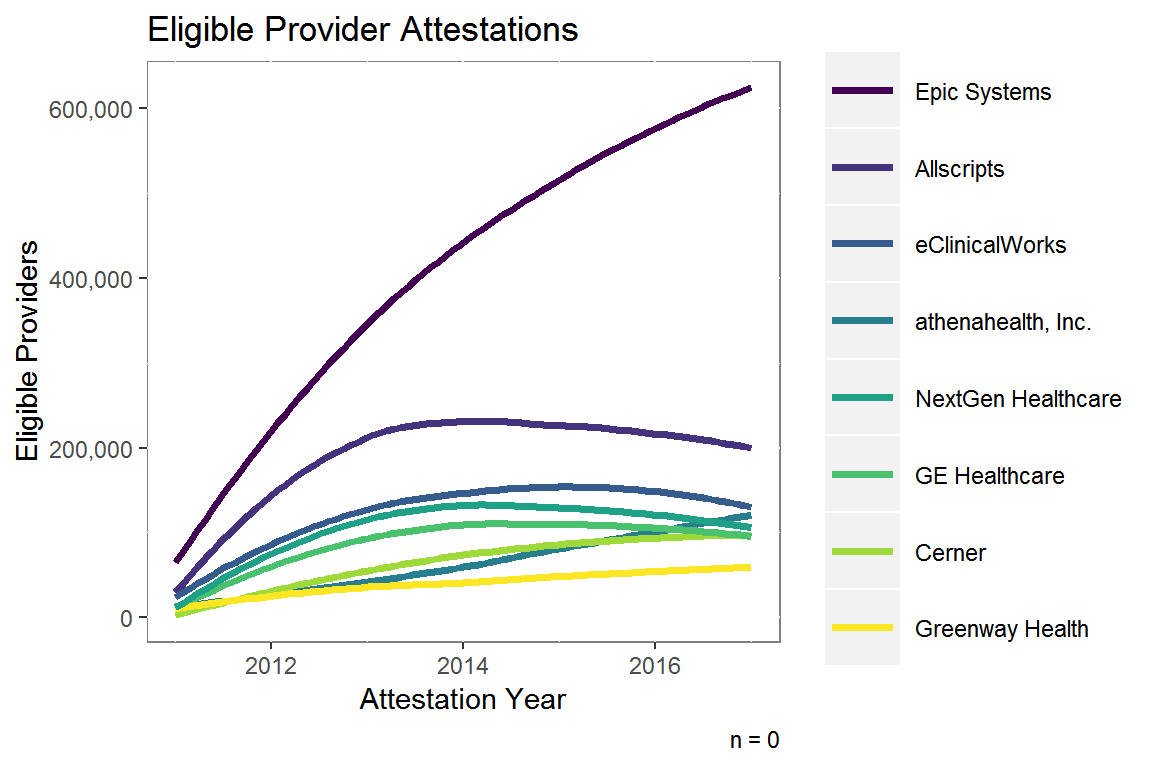
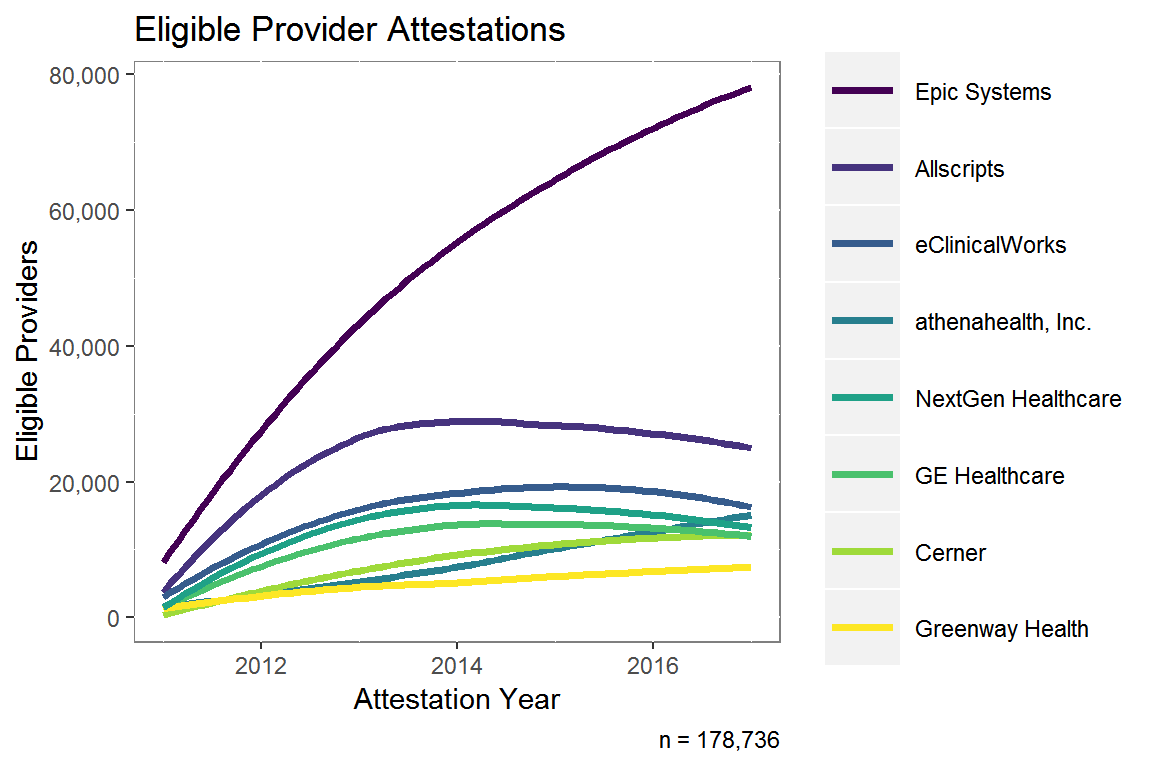
refine data page

diff --git a/data.html b/data.html
@@ -579,7 +579,7 @@ aff.hosp &lt;-<span class="st"> </span>aff.hosp[MedicareNumber <span class="op">
 <div id="section" class="section level1 tabset">
 <h1></h1>
 <p><a href="https://www.himss.org/library/interoperability-standards/what-is-interoperability">Interoperability is the ability of different information systems, devices or applications to connect, in a coordinated manner, within and across organizational boundaries to access, exchange and cooperatively use data amongst stakeholders, with the goal of optimizing the health of individuals and populations.</a></p>
-<p>The effort required to acheive interoperability can be illustrated by looking at the volume of systems that must coordinate to acheive interoperability between a single hospital and it’s affiliated physicians.</p>
+<p>Looking at the number of systems that must coordinate to achieve interoperability between a single hospital and it’s affiliated physicians illustrates the magnitude of the effort required to achieve interoperability on a national level.</p>
 <div class="sourceCode"><pre class="sourceCode r"><code class="sourceCode r"><span class="co"># affiliations with mu records</span>
 aff.hosp2 &lt;-<span class="st"> </span>aff.hosp[NPI <span class="op">%in%</span><span class="st"> </span>mu<span class="op">$</span>NPI <span class="op">&amp;</span>
 <span class="st">           </span>MedicareNumber <span class="op">%in%</span><span class="st"> </span>mu[<span class="op">!</span><span class="kw">is.na</span>(mu<span class="op">$</span>CCN),]<span class="op">$</span>CCN]
@@ -675,10 +675,10 @@ aff.mu.npi.cnt &lt;-<span class="st"> </span>aff.mu.npi[,
 <span class="st">  </span><span class="kw">scale_x_log10</span>(<span class="dt">limits =</span> <span class="kw">c</span>(<span class="dv">1</span>, <span class="dv">1000</span>))<span class="op">+</span>
 <span class="st">  </span><span class="kw">scale_color_viridis_d</span>(<span class="dt">begin =</span> <span class="fl">0.0</span>,
                        <span class="dt">end =</span> <span class="fl">0.1</span>)<span class="op">+</span>
-<span class="st">  </span><span class="kw">labs</span>(<span class="dt">title =</span> <span class="kw">paste</span>(<span class="st">&quot;The average hospital has affilated&quot;</span>,
-                     <span class="st">&quot;physicians</span><span class="ch">\n</span><span class="st">using&quot;</span>,
+<span class="st">  </span><span class="kw">labs</span>(<span class="dt">title =</span> <span class="kw">paste</span>(<span class="st">&quot;The average hospital has&quot;</span>,
                      <span class="kw">round</span>(<span class="kw">mean</span>(aff.mu.avg<span class="op">$</span>Vendors)),
-                    <span class="st">&quot;disparate EHR systems&quot;</span>),
+                    <span class="st">&quot;disparate EHR systems used by&quot;</span>,
+                    <span class="st">&quot;</span><span class="ch">\n</span><span class="st"> affiliated physicians&quot;</span>),
        <span class="dt">x =</span> <span class="st">&quot;log10(Affiliated Physicians)&quot;</span>,
        <span class="dt">y =</span> <span class="st">&quot;Physician EHR Vendors&quot;</span>)<span class="op">+</span>
 <span class="st">  </span><span class="kw">theme</span>(<span class="dt">panel.background =</span>
@@ -688,7 +688,7 @@ aff.mu.npi.cnt &lt;-<span class="st"> </span>aff.mu.npi[,
 </div>
 <div id="providers" class="section level2">
 <h2>Providers</h2>
-<p>32% of physican affiliations involve multiple EHR vendors.</p>
+<p>68% of physician affiliations involve multiple EHR vendors.</p>
 <div class="sourceCode"><pre class="sourceCode r"><code class="sourceCode r">aff.mu.npi.cnt <span class="op">%&gt;%</span><span class="st"> </span>
 <span class="st">  </span><span class="kw">filter</span>(Affiliated <span class="op">==</span><span class="st"> </span><span class="dv">1</span>) <span class="op">%&gt;%</span><span class="st"> </span>
 <span class="st">  </span><span class="kw">mutate</span>(<span class="dt">Same =</span> Vendors <span class="op">==</span><span class="st"> </span><span class="dv">0</span>) <span class="op">%&gt;%</span>
@@ -757,6 +757,38 @@ aff.mu.npi.cnt <span class="op">%&gt;%</span><span class="st"> </span>
                        <span class="dt">colour =</span> <span class="st">&quot;grey50&quot;</span>))</code></pre></div>
 <p><img src="data_files/figure-html/physplots-1.png" width="45%" /><img src="data_files/figure-html/physplots-2.png" width="45%" /></p>
 </div>
+<div id="additional-ehrs" class="section level2">
+<h2>Additional EHRs</h2>
+<div class="sourceCode"><pre class="sourceCode r"><code class="sourceCode r">aff.mu.npi.cnt <span class="op">%&gt;%</span><span class="st"> </span>
+<span class="st">  </span><span class="kw">mutate</span>(<span class="dt">grp =</span> <span class="st">&quot;group&quot;</span>) <span class="op">%&gt;%</span><span class="st"> </span>
+<span class="st">  </span><span class="kw">ggplot</span>(<span class="kw">aes</span>(Affiliated, Vendors)) <span class="op">+</span>
+<span class="st">  </span><span class="kw">stat_summary</span>(<span class="dt">fun.data =</span> <span class="st">&quot;median_hilow&quot;</span>,
+               <span class="dt">geom =</span> <span class="st">&quot;linerange&quot;</span>,
+               <span class="dt">mapping =</span> <span class="kw">aes</span>(<span class="dt">color =</span> Affiliated),
+               <span class="dt">show.legend =</span> F)<span class="op">+</span>
+<span class="st">  </span><span class="kw">stat_summary</span>(<span class="dt">fun.y =</span> <span class="st">&quot;median&quot;</span>,
+               <span class="dt">geom =</span> <span class="st">&quot;line&quot;</span>,
+               <span class="dt">mapping =</span> <span class="kw">aes</span>(<span class="dt">color =</span> Affiliated),
+               <span class="dt">show.legend =</span> F)<span class="op">+</span>
+<span class="st">  </span><span class="kw">stat_sum</span>(<span class="dt">geom =</span> <span class="st">&quot;point&quot;</span>,
+           <span class="dt">mapping =</span> <span class="kw">aes</span>(<span class="dt">color =</span> Affiliated),
+           <span class="dt">show.legend =</span> F)<span class="op">+</span>
+<span class="st">  </span><span class="kw">scale_color_viridis_c</span>(<span class="dt">begin =</span> <span class="fl">0.2</span>,
+                       <span class="dt">end =</span> <span class="fl">0.8</span>)<span class="op">+</span>
+<span class="st">  </span><span class="kw">scale_y_continuous</span>(<span class="dt">labels =</span> scales<span class="op">::</span>comma)<span class="op">+</span>
+<span class="st">  </span><span class="kw">scale_x_continuous</span>(<span class="dt">labels =</span> scales<span class="op">::</span>comma)<span class="op">+</span>
+<span class="st">  </span><span class="kw">labs</span>(<span class="dt">title =</span> 
+         <span class="kw">paste0</span>(<span class="kw">comma</span>(<span class="kw">nrow</span>(aff.mu.npi.cnt[Affiliated <span class="op">&gt;</span><span class="st"> </span><span class="dv">1</span> <span class="op">&amp;</span>
+<span class="st">                                            </span>Vendors <span class="op">&gt;</span><span class="st"> </span><span class="dv">0</span>])),
+                <span class="st">&quot; Physicians affiliated with multiple hospitals&quot;</span>,
+                <span class="st">&quot;</span><span class="ch">\n</span><span class="st">have to interact with multiple EHRs&quot;</span>),
+       <span class="dt">x =</span> <span class="st">&quot;Hospital Affiliations&quot;</span>,
+       <span class="dt">y =</span> <span class="st">&quot;Additional EHR Vendors&quot;</span>) <span class="op">+</span>
+<span class="st"> </span><span class="kw">theme</span>(<span class="dt">panel.background =</span>
+          <span class="kw">element_rect</span>(<span class="dt">fill =</span> <span class="st">&quot;white&quot;</span>,
+                       <span class="dt">colour =</span> <span class="st">&quot;grey50&quot;</span>))</code></pre></div>
+<p><img src="data_files/figure-html/dispplot-1.png" width="576" /></p>
+</div>
 <div id="by-hospital-vendor" class="section level2">
 <h2>By Hospital Vendor</h2>
 <div class="sourceCode"><pre class="sourceCode r"><code class="sourceCode r">mu.vend &lt;-<span class="st"> </span>mu.aff[, .(<span class="kw">length</span>(<span class="kw">unique</span>(NPI)),
@@ -813,64 +845,27 @@ mu.vend <span class="op">%&gt;%</span><span class="st"> </span>
         <span class="dt">legend.key.size =</span> <span class="kw">unit</span>(<span class="dv">2</span>, <span class="st">&quot;lines&quot;</span>))</code></pre></div>
 <p><img src="data_files/figure-html/byvend-1.png" width="576" /></p>
 </div>
-<div id="disparate-ehr" class="section level2">
-<h2>Disparate EHR</h2>
-<p>Physicians have to coordinate with an additional EHR system for every NaN affiliation.</p>
-<div class="sourceCode"><pre class="sourceCode r"><code class="sourceCode r">aff.mu.npi.cnt <span class="op">%&gt;%</span><span class="st"> </span>
-<span class="st">  </span><span class="kw">mutate</span>(<span class="dt">grp =</span> <span class="st">&quot;group&quot;</span>) <span class="op">%&gt;%</span><span class="st"> </span>
-<span class="st">  </span><span class="kw">ggplot</span>(<span class="kw">aes</span>(Affiliated, Vendors)) <span class="op">+</span>
-<span class="st">  </span><span class="kw">stat_summary</span>(<span class="dt">fun.data =</span> <span class="st">&quot;median_hilow&quot;</span>,
-               <span class="dt">geom =</span> <span class="st">&quot;linerange&quot;</span>,
-               <span class="dt">mapping =</span> <span class="kw">aes</span>(<span class="dt">color =</span> Affiliated),
-               <span class="dt">show.legend =</span> F)<span class="op">+</span>
-<span class="st">  </span><span class="kw">stat_summary</span>(<span class="dt">fun.y =</span> <span class="st">&quot;median&quot;</span>,
-               <span class="dt">geom =</span> <span class="st">&quot;line&quot;</span>,
-               <span class="dt">mapping =</span> <span class="kw">aes</span>(<span class="dt">color =</span> Affiliated),
-               <span class="dt">show.legend =</span> F)<span class="op">+</span>
-<span class="st">  </span><span class="kw">stat_sum</span>(<span class="dt">geom =</span> <span class="st">&quot;point&quot;</span>,
-           <span class="dt">mapping =</span> <span class="kw">aes</span>(<span class="dt">color =</span> Affiliated),
-           <span class="dt">show.legend =</span> F)<span class="op">+</span>
-<span class="st">  </span><span class="kw">scale_color_viridis_c</span>(<span class="dt">begin =</span> <span class="fl">0.2</span>,
-                       <span class="dt">end =</span> <span class="fl">0.8</span>)<span class="op">+</span>
-<span class="st">  </span><span class="kw">scale_y_continuous</span>(<span class="dt">labels =</span> scales<span class="op">::</span>comma)<span class="op">+</span>
-<span class="st">  </span><span class="kw">scale_x_continuous</span>(<span class="dt">labels =</span> scales<span class="op">::</span>comma)<span class="op">+</span>
-<span class="st">  </span><span class="kw">labs</span>(<span class="dt">title =</span> 
-         <span class="kw">paste0</span>(<span class="kw">round</span>(<span class="kw">nrow</span>(aff.mu.npi.cnt[Affiliated <span class="op">&gt;</span><span class="st"> </span><span class="dv">1</span> <span class="op">&amp;</span>
-<span class="st">                                            </span>Vendors <span class="op">&gt;</span><span class="st"> </span><span class="dv">0</span>]) <span class="op">/</span>
-<span class="st">                        </span><span class="kw">nrow</span>(aff.mu.npi.cnt[Affiliated <span class="op">&gt;</span><span class="st"> </span><span class="dv">1</span>]), <span class="dv">2</span>)<span class="op">*</span><span class="dv">100</span>,
-                <span class="st">&quot;% of Physicians affiliated with multiple hospitals&quot;</span>,
-                <span class="st">&quot;</span><span class="ch">\n</span><span class="st">have to interact with multiple EHRs&quot;</span>),
-       <span class="dt">x =</span> <span class="st">&quot;Hospital Affiliations&quot;</span>,
-       <span class="dt">y =</span> <span class="st">&quot;Additional EHR Vendors&quot;</span>) <span class="op">+</span>
-<span class="st"> </span><span class="kw">theme</span>(<span class="dt">panel.background =</span>
-          <span class="kw">element_rect</span>(<span class="dt">fill =</span> <span class="st">&quot;white&quot;</span>,
-                       <span class="dt">colour =</span> <span class="st">&quot;grey50&quot;</span>))</code></pre></div>
-<p><img src="data_files/figure-html/dispplot-1.png" width="576" /></p>
-</div>
 </div>
 <div id="vendor-market-share" class="section level1 tabset">
 <h1>Vendor Market Share</h1>
 <div id="inpatient" class="section level2">
 <h2>Inpatient</h2>
-<div class="sourceCode"><pre class="sourceCode r"><code class="sourceCode r">n.hosp &lt;-<span class="st"> </span><span class="kw">length</span>(
-  <span class="kw">unique</span>(
+<div class="sourceCode"><pre class="sourceCode r"><code class="sourceCode r">n.hosp &lt;-<span class="st"> </span><span class="kw">sum</span>(
     vendor[vendor<span class="op">$</span>Vendor_Name <span class="op">%in%</span>
 <span class="st">              </span>top.vendors[top.vendors<span class="op">$</span>Provider_Type <span class="op">==</span>
 <span class="st">                            &quot;Hospital&quot;</span> <span class="op">&amp;</span>
 <span class="st">                          </span>top.vendors<span class="op">$</span>Vendor <span class="op">!=</span><span class="st"> &quot;Other&quot;</span>,
                           ]<span class="op">$</span>Vendor_Name <span class="op">&amp;</span>
-<span class="st">              </span>vendor<span class="op">$</span>Provider_Type <span class="op">==</span><span class="st"> &quot;Hospital&quot;</span>, ]<span class="op">$</span>Id)
-  )
+<span class="st">              </span>vendor<span class="op">$</span>Provider_Type <span class="op">==</span><span class="st"> &quot;Hospital&quot;</span> <span class="op">&amp;</span>
+<span class="st">             </span>vendor<span class="op">$</span>Attestation_Year <span class="op">==</span><span class="st"> </span><span class="dv">2017</span>, ]<span class="op">$</span>V1)
 
-n.ep &lt;-<span class="st"> </span><span class="kw">length</span>(
-  <span class="kw">unique</span>(
-    vendor[vendor<span class="op">$</span>Vendor_Name <span class="op">%in%</span>
-<span class="st">              </span>top.vendors[top.vendors<span class="op">$</span>Provider_Type <span class="op">!=</span>
-<span class="st">                            &quot;Hospital&quot;</span> <span class="op">&amp;</span>
+n.ep &lt;-<span class="st"> </span><span class="kw">sum</span>(vendor[vendor<span class="op">$</span>Vendor_Name <span class="op">%in%</span>
+<span class="st">                   </span>top.vendors[top.vendors<span class="op">$</span>Provider_Type <span class="op">!=</span>
+<span class="st">                                &quot;Hospital&quot;</span> <span class="op">&amp;</span>
 <span class="st">                          </span>top.vendors<span class="op">$</span>Vendor <span class="op">!=</span><span class="st"> &quot;Other&quot;</span>,
                           ]<span class="op">$</span>Vendor_Name <span class="op">&amp;</span>
-<span class="st">              </span>vendor<span class="op">$</span>Provider_Type <span class="op">!=</span><span class="st"> &quot;Hospital&quot;</span>, ]<span class="op">$</span>Id)
-)
+<span class="st">              </span>vendor<span class="op">$</span>Provider_Type <span class="op">!=</span><span class="st"> &quot;Hospital&quot;</span> <span class="op">&amp;</span>
+<span class="st">             </span>vendor<span class="op">$</span>Attestation_Year <span class="op">==</span><span class="st"> </span><span class="dv">2017</span>, ]<span class="op">$</span>V1)
 
 vendor <span class="op">%&gt;%</span><span class="st"> </span>
 <span class="st">  </span><span class="kw">inner_join</span>(top.vendors <span class="op">%&gt;%</span><span class="st"> </span>
@@ -878,13 +873,11 @@ vendor <span class="op">%&gt;%</span><span class="st"> </span>
 <span class="st">               </span><span class="kw">select</span>(Vendor_Name, Provider_Type, Vendor)) <span class="op">%&gt;%</span><span class="st"> </span>
 <span class="st">  </span><span class="kw">filter</span>(Provider_Type <span class="op">!=</span><span class="st"> &quot;EP&quot;</span>) <span class="op">%&gt;%</span><span class="st"> </span>
 <span class="st">  </span><span class="kw">filter</span>(Attestation_Year <span class="op">&lt;</span><span class="st"> </span><span class="dv">2018</span>) <span class="op">%&gt;%</span><span class="st"> </span>
-<span class="st">  </span><span class="kw">group_by</span>(Vendor, Attestation_Year) <span class="op">%&gt;%</span><span class="st"> </span>
-<span class="st">  </span><span class="kw">summarize</span>(<span class="dt">n =</span> <span class="kw">sum</span>(V1)) <span class="op">%&gt;%</span><span class="st"> </span>
-<span class="st">  </span><span class="kw">ggplot</span>(<span class="kw">aes</span>(Attestation_Year, n))<span class="op">+</span>
+<span class="st">  </span><span class="kw">ggplot</span>(<span class="kw">aes</span>(Attestation_Year, V1))<span class="op">+</span>
 <span class="st">  </span><span class="kw">geom_smooth</span>(<span class="kw">aes</span>(<span class="dt">group =</span> Vendor,
                 <span class="dt">color =</span> <span class="kw">fct_reorder2</span>(Vendor,
                                      Attestation_Year,
-                                     n)),
+                                     V1)),
               <span class="dt">span =</span> T,
               <span class="dt">size =</span> <span class="fl">1.3</span>,
               <span class="dt">se =</span> F)<span class="op">+</span>
@@ -910,13 +903,11 @@ vendor <span class="op">%&gt;%</span><span class="st"> </span>
 <span class="st">               </span><span class="kw">select</span>(Vendor_Name, Provider_Type, Vendor)) <span class="op">%&gt;%</span><span class="st"> </span>
 <span class="st">  </span><span class="kw">filter</span>(Provider_Type <span class="op">==</span><span class="st"> &quot;EP&quot;</span>) <span class="op">%&gt;%</span><span class="st"> </span>
 <span class="st">  </span><span class="kw">filter</span>(Attestation_Year <span class="op">&lt;</span><span class="st"> </span><span class="dv">2018</span>) <span class="op">%&gt;%</span><span class="st"> </span>
-<span class="st">  </span><span class="kw">group_by</span>(Vendor, Attestation_Year) <span class="op">%&gt;%</span><span class="st"> </span>
-<span class="st">  </span><span class="kw">summarize</span>(<span class="dt">n =</span> <span class="kw">sum</span>(V1)) <span class="op">%&gt;%</span><span class="st"> </span>
-<span class="st">  </span><span class="kw">ggplot</span>(<span class="kw">aes</span>(Attestation_Year, n))<span class="op">+</span>
+<span class="st">  </span><span class="kw">ggplot</span>(<span class="kw">aes</span>(Attestation_Year, V1))<span class="op">+</span>
 <span class="st">  </span><span class="kw">geom_smooth</span>(<span class="kw">aes</span>(<span class="dt">group =</span> Vendor,
                 <span class="dt">color =</span> <span class="kw">fct_reorder2</span>(Vendor,
                                      Attestation_Year,
-                                     n)),
+                                     V1)),
               <span class="dt">span =</span> <span class="dv">1</span>,
               <span class="dt">size =</span> <span class="fl">1.3</span>,
               <span class="dt">se =</span> F)<span class="op">+</span>
@@ -1011,6 +1002,7 @@ npi.vend[V1 <span class="op">&gt;</span><span class="st"> </span><span class="dv
 <span class="st">  </span><span class="kw">scale_fill_viridis_d</span>()<span class="op">+</span>
 <span class="st">  </span><span class="kw">scale_y_continuous</span>(<span class="dt">labels =</span> scales<span class="op">::</span>comma)<span class="op">+</span>
 <span class="st">  </span><span class="kw">scale_x_continuous</span>(<span class="dt">labels =</span> as.integer)<span class="op">+</span>
+<span class="st">  </span><span class="kw">coord_cartesian</span>(<span class="dt">xlim =</span> <span class="kw">c</span>(<span class="dv">1</span>, <span class="dv">6</span>))<span class="op">+</span>
 <span class="st">  </span><span class="kw">theme</span>(<span class="dt">panel.background =</span>
           <span class="kw">element_rect</span>(<span class="dt">fill =</span> <span class="st">&quot;white&quot;</span>,
                        <span class="dt">colour =</span> <span class="st">&quot;grey50&quot;</span>))</code></pre></div>
